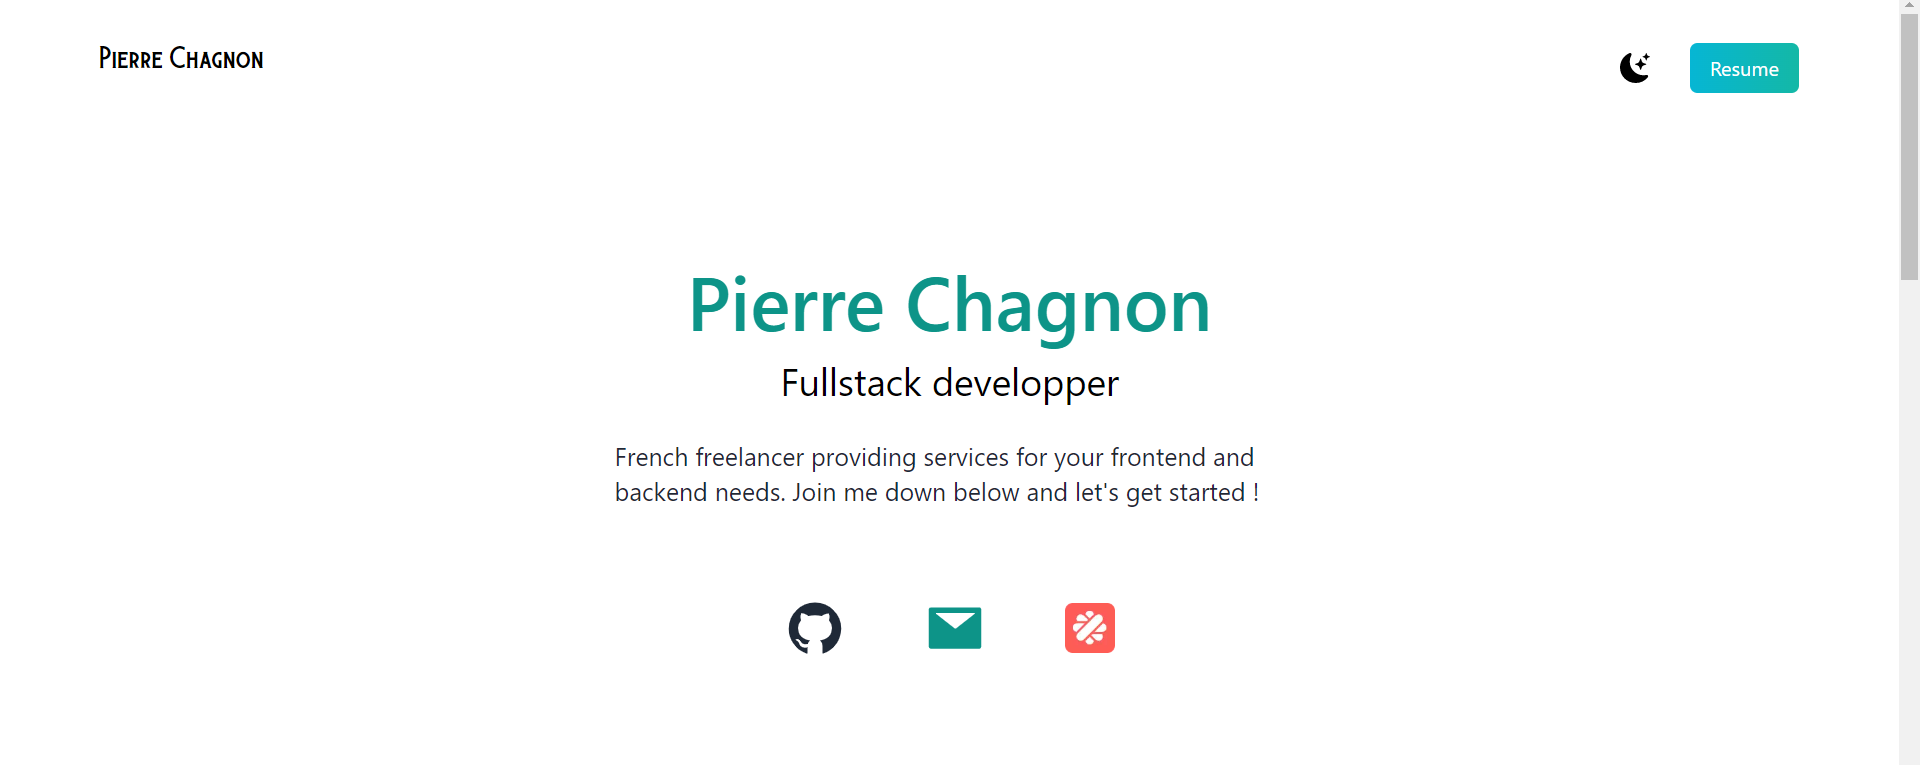
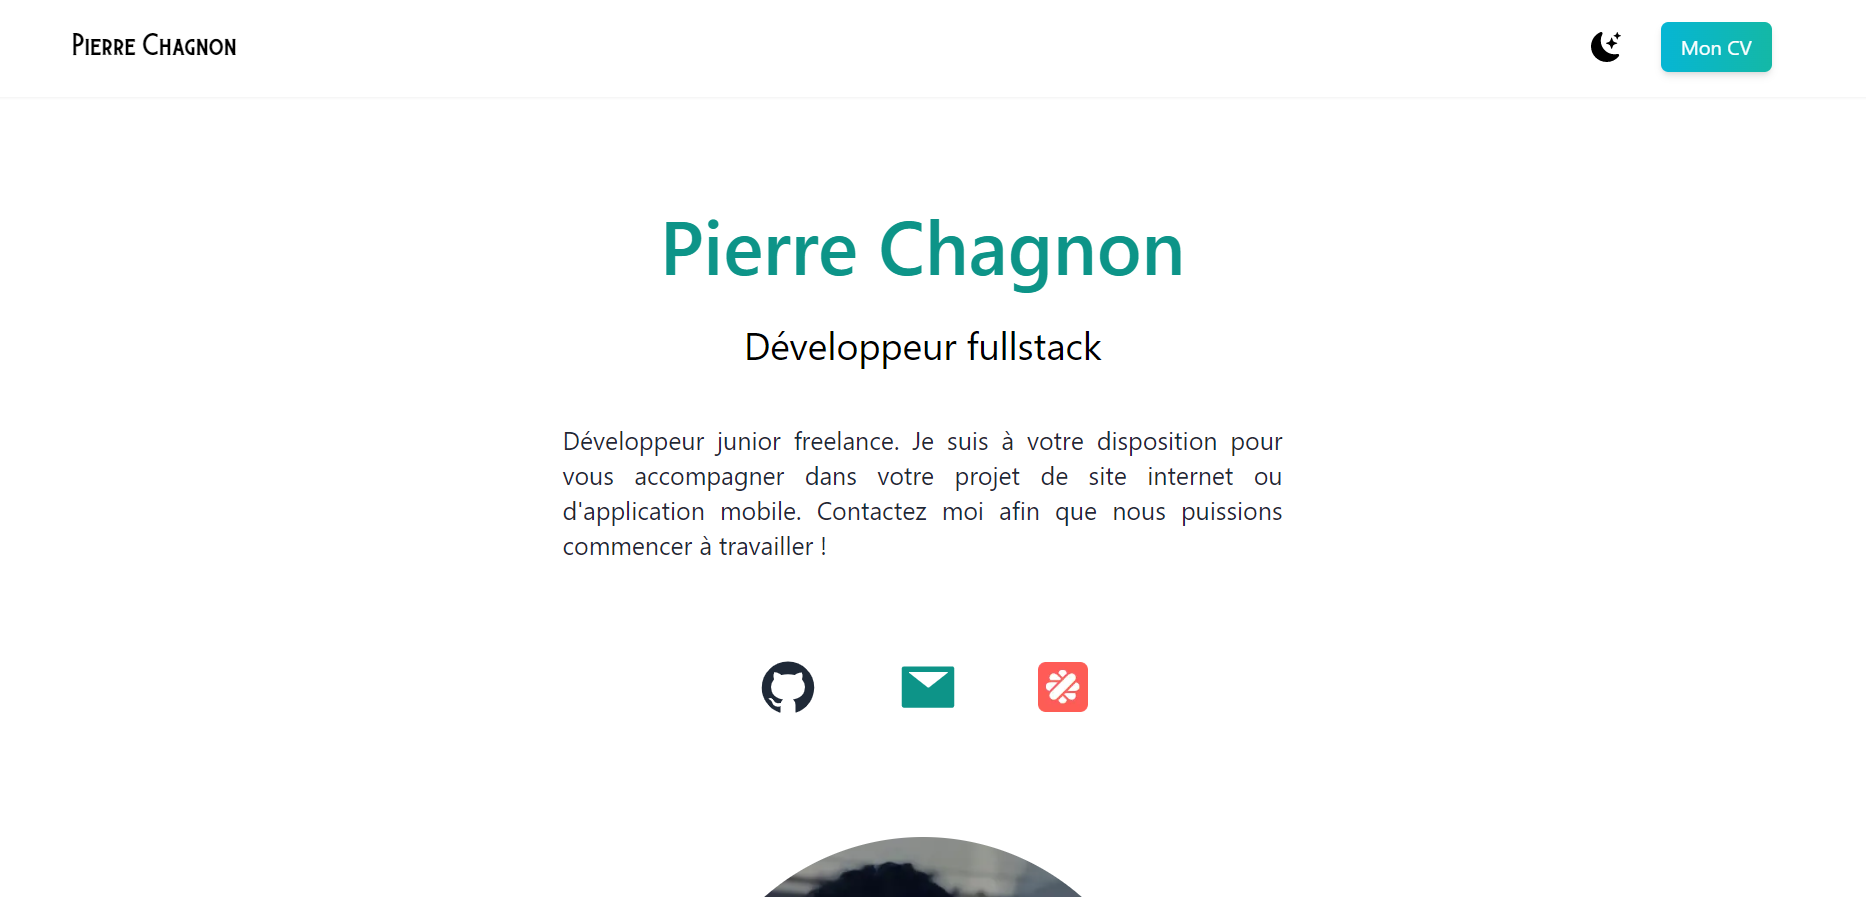
v2 cards onclick infos

diff --git a/pages/index.js b/pages/index.js
@@ -10,17 +10,28 @@ import design2 from '../public/project-1/screen2.png'
 import ambLogo from '../public/project-1/logo.png'
 
 import design3 from '../public/project-2/screen1.png'
+import design32 from '../public/project-2/screen2.png'
+import design33 from '../public/project-2/screen3.png'
+
 
 import design4 from '../public/project-3/screen1.png'
 
+import slideAmbassadeur from '../public/project-1/slide-ambassadeur.png'
+
 import Card from '../components/Card'
 import ModalResume from '../components/ModalResume'
+import MoreInfos from "../components/MoreInfos"
 
 import { useState } from 'react'
 
 export default function Home() {
+  console.log("index rendered")
+
   const [darkMode, setDarkMode] = useState(false)
   const [showCv, setShowCv] = useState(false)
+  const [showInfos, setShowInfos] = useState(false)
+  const [screens, setScreens] = useState(null)
+
 
   const handleCloseModal = () => {
     document.body.classList.toggle('overflow-hidden')
@@ -29,46 +40,54 @@ export default function Home() {
 
   const handleShowModal = () => {
     document.body.classList.toggle('overflow-hidden')
-    console.log(document.getElementById('container').classList)
     setShowCv(true)
+  }
+
+  const handleShowInfos = (screens) => {
+    document.body.classList.toggle('overflow-hidden')
+    setShowInfos(true)
+    setScreens(screens)
+  }
+
+  const handleCloseInfos = () => {
+    document.body.classList.toggle('overflow-hidden')
+    setShowInfos(false)
   }
 
   return (
     <div id="container" className={darkMode ? "dark" : ""}>
+      {showInfos ? <MoreInfos handleCloseInfos={handleCloseInfos} screens={screens} /> : ''}
       {showCv ? <ModalResume handleCloseModal={handleCloseModal} /> : ''}
       <Head>
         <title>Pierre Chagnon Portfolio</title>
         <meta name="description" content="Generated by create next app" />
-        <link rel="icon" href="/favicon.ico" />
+        <link rel="icon" href="/icon.png" />
       </Head>
-
-      <main className='bg-white px-10 md:px-20 lg:px-30 pb-10 dark:bg-gray-900'>
-        <section className='min-h-screen'>
-          <nav className='py-10 mb-12 flex justify-between dark:text-white'>
-            <h1 className='text-xl font-burtons'>Pierre Chagnon</h1>
-            <ul className='flex items-center'>
-              <li><BsFillMoonStarsFill onClick={() => setDarkMode(!darkMode)} className='cursor-pointer text-2xl hover:text-gray-400 transition duration-150 ease-out hover:ease-in' /></li>
-              <li>
-                <button onClick={handleShowModal} className='bg-gradient-to-r from-cyan-500 to-teal-500 text-white px-4 py-2 rounded-md ml-8 hover:scale-110 transition duration-150 ease-out hover:ease-in shadow-md' href="#">Mon CV</button>
-              </li>
-            </ul>
-          </nav>
-          <div className='flex flex-col justify-center p-10'>
-            <h2 className='text-5xl py-2 text-teal-600 font-medium text-center md:text-6xl'>Pierre Chagnon</h2>
-            <h3 className='text-2xl py-2 text-center md:text-3xl dark:text-white'>Fullstack developper</h3>
-            <p className='text-justify mx-auto text-md py-5 leading-8 text-gray-800 md:text-xl max-w-xl dark:text-gray-400'>
-              Développeur junior freelance. Je suis à votre disposition pour vous accompagner dans votre projet de site internet ou d&apos;application mobile. Contactez moi afin que nous puissions commencer à travailler !
-            </p>
-          </div>
-          <div className='text-5xl flex justify-center gap-16 py-3 items-center'>
-            <a className='hover:scale-110 transition duration-150 ease-out hover:ease-in' href='https://github.com/PierreChagnon' target="_blank" rel="noreferrer" ><AiFillGithub className='cursor-pointer text-gray-800 dark:text-gray-400' /></a>
-            <a href='mailto:pc.chagnon@gmail.com'><AiFillMail className='cursor-pointer text-teal-600 dark:text-cyan-500 hover:scale-110 transition duration-150 ease-out hover:ease-in' /></a>
-            <a className='hover:scale-110 transition duration-150 ease-out hover:ease-in' href='https://www.malt.fr/profile/pierrechagnon' target="_blank" rel="noreferrer" ><img className="object-contain" width={40} src="https://dam.malt.com/rebranding2020/malt-logo/icon-76x76" alt="" /></a>
-          </div>
-          <div className='relative w-80 h-80 mx-auto my-20 md:h-96 md:w-96'>
-            <Image className='rounded-full' src={profil} layout="fill" />
-          </div>
-        </section>
+      <nav id='nav' className='sticky shadow-sm top-0 z-30 bg-white w-full px-10 md:px-20 lg:px-30 h-20 flex justify-between items-center dark:text-white dark:bg-gray-900'>
+        <h1 className='text-xl font-burtons'><a href='https://pierrechagnon.fr' rel='noreferrer'>Pierre Chagnon</a></h1>
+        <ul className='flex items-center'>
+          <li><BsFillMoonStarsFill onClick={() => setDarkMode(!darkMode)} className='cursor-pointer text-2xl hover:text-gray-400 transition duration-150 ease-out hover:ease-in' /></li>
+          <li>
+            <button onClick={handleShowModal} className='bg-gradient-to-r from-cyan-500 to-teal-500 text-white px-4 py-2 rounded-md ml-8 hover:scale-110 transition duration-150 ease-out hover:ease-in shadow-md' href="#">Mon CV</button>
+          </li>
+        </ul>
+      </nav>
+      <main className='bg-white px-10 md:px-20 lg:px-30 py-10 dark:bg-gray-900'>
+        <div className='flex flex-col justify-center p-10'>
+          <h2 className='text-5xl py-2 text-teal-600 font-medium text-center md:text-6xl'>Pierre Chagnon</h2>
+          <h3 className='my-4 text-2xl py-2 text-center md:text-3xl dark:text-white'>Développeur fullstack</h3>
+          <p className='text-justify mx-auto text-md py-5 leading-8 text-gray-800 md:text-xl max-w-xl dark:text-gray-400'>
+            Développeur junior freelance. Je suis à votre disposition pour vous accompagner dans votre projet de <span className='text-teal-500'>site internet</span> ou d&apos;<span className='text-teal-500'>application mobile</span>. Contactez moi afin que nous puissions commencer à travailler !
+          </p>
+        </div>
+        <div id='icons-container' className='md:sticky top-0 w-fit z-30 mx-auto text-5xl flex gap-16 py-4 items-center'>
+          <a className='hover:scale-110 transition duration-150 ease-out hover:ease-in' href='https://github.com/PierreChagnon' target="_blank" rel="noreferrer" ><AiFillGithub className='cursor-pointer text-gray-800 dark:text-gray-400' /></a>
+          <a href='mailto:pc.chagnon@gmail.com'><AiFillMail className='cursor-pointer text-teal-600 dark:text-cyan-500 hover:scale-110 transition duration-150 ease-out hover:ease-in' /></a>
+          <a className='hover:scale-110 transition duration-150 ease-out hover:ease-in' href='https://www.malt.fr/profile/pierrechagnon' target="_blank" rel="noreferrer" ><img className="object-contain" width={40} src="https://dam.malt.com/rebranding2020/malt-logo/icon-76x76" alt="" /></a>
+        </div>
+        <div className='relative w-80 h-80 mx-auto my-20 md:h-96 md:w-96'>
+          <Image className='rounded-full' src={profil} layout="fill" />
+        </div>
         <section>
           <div>
             <h3 className='text-3xl py-1 dark:text-white'>Portfolio</h3>
@@ -76,15 +95,16 @@ export default function Home() {
           </div>
           <div className='lg:flex gap-10'>
             <Card
+              handleShowInfos={() => handleShowInfos([slideAmbassadeur])}
               id={"card-1"}
               previews={[design1, design2]}
               title="L'ambassadeur"
               description="Application mobile développée avec React Native. Travail réalisé pour le compte de la société Beyond Games. Je suis intervenu sur toute la conception, du design à l'intégration en React Native. L'application est disponible sur l'App Store et le Google Play"
               githubLink="https://github.com/PierreChagnon/Ambassadeur"
               frameworks={["React Native", "CSS 3", "Figma"]}
-              screens={[design1, design2, ambLogo]}
             />
             <Card
+              handleShowInfos={() => handleShowInfos([design3, design32, design33])}
               id={'card-2'}
               previews={[design3]}
               title="this.Portfolio"
@@ -93,10 +113,11 @@ export default function Home() {
               frameworks={['React js', 'Next js', 'Tailwind css']}
             />
             <Card
+              handleShowInfos={() => handleShowInfos([design4])}
               id={'card - 3'}
               previews={[design4]}
               title="Calculateur loyer Pinel"
-              description="Site d'informations sur la loi Pinel et calculateur de réduction d'impôt Pinel. Module React js intégré dans le code HTML. Le formulaire communique les informations sur une base de donnée MySQL via une application Express sur Node js."
+              description="Site d'informations sur la loi Pinel et calculateur de réduction d'impôt Pinel. Module React js intégré dans le code HTML. Le formulaire communique les informations sur une base de données MySQL via une application Express sur Node js."
               githubLink="#"
               frameworks={['React js', 'Express', 'Node js', 'MySQL']}
             />
@@ -115,7 +136,7 @@ export default function Home() {
             <input className='dark:outline-none dark:border-0 outline-gray-400 text-gray-600 border-gray-400 border-2 rounded-md my-2 h-10 p-2 ' type="email" name='email' placeholder='Your email...' required />
             <textarea className='dark:outline-none dark:border-0 outline-gray-400 text-gray-600 border-gray-400 border-2 rounded-md my-2 p-2 h-32 ' name="message" id="textarea" placeholder='Your message...'></textarea>
             <input type="hidden" name="_next" value="https://pierrechagnon.fr"></input>
-            <button className='hover:scale-105 transition duration-150 ease-out hover:ease-in shadow-md w-1/2 bg-gradient-to-r from-cyan-500 to-teal-500 text-white p-2 rounded-md mx-auto my-4' type='submit'>Send message</button>
+            <button className='hover:scale-105 transition duration-150 ease-out hover:ease-in shadow-md w-1/2 bg-gradient-to-r from-cyan-500 to-teal-500 text-white p-2 rounded-md mx-auto my-4' type='submit'>Envoyer</button>
           </form>
         </section>
       </main>

diff --git a/components/Card.jsx b/components/Card.jsx
@@ -1,41 +1,27 @@
 import Image from "next/image"
 import { AiFillGithub } from "react-icons/ai"
 
-import MoreInfos from "./MoreInfos"
-
-import { useState, useRef, useEffect } from "react"
-
-export default function Card({ id, previews, title, description, githubLink = '#', frameworks, screens = [''] }) {
-    const [show, setShow] = useState(false)
-    const [height, setHeight] = useState(0);
-    const [width, setWidth] = useState(0);
-    const ref = useRef(null)
-
-    useEffect(() => {
-        setHeight(ref.current.offsetHeight);
-        setWidth(ref.current.offsetWidth);
-    }, [])
+export default function Card({ id, previews, title, description, githubLink = '#', frameworks, handleShowInfos }) {
 
     return (
         <div
-            ref={ref}
-            onClick={() => setShow(!show)}
-            onMouseLeave={() => setShow(false)}
+            onClick={handleShowInfos}
             id={id}
-            className='hover:scale-105 transition duration-150 ease-out hover:ease-in flex flex-col flex-1 items-center justify-between cursor-pointer shadow-lg p-10 rounded-xl my-10 bg-white'
+            className='hover:shadow-xl dark:shadow-gray-500 transition duration-150 ease-out hover:ease-in flex flex-col flex-1 items-center justify-between cursor-pointer shadow-md p-10 rounded-xl my-10 bg-white'
         >
-            {/* {show ? <MoreInfos screens={screens} id={id + "-info"} width={width} height={height} /> : ''} */}
             <div className='flex justify-around max-h-40 md:max-h-60'>
                 {previews.map((img, key) => {
                     return <Image key={key} src={img} objectFit={"contain"} />
 
                 })}
             </div>
-            <h3 className='text-xl font-medium pt-8 pb-2 text-center dark:text-white'>{title}</h3>
-            <p className='py-2 text-justify'>{description}</p>
-            <div className="flex w-full justify-center items-center text-lg my-4">
-                <AiFillGithub className="text-2xl" />
-                <a href={githubLink} onclick="event.preventDefault()" target="_blank" rel="noreferrer" className='ml-4 hover:text-teal-800 transition duration-150 ease-out hover:ease-in py-4 text-teal-600'>lien Github</a>
+            <h3 className='text-xl mt-2 font-medium py-4 text-center dark:text-white'>{title}</h3>
+            <p className='text-justify mb-2'>{description}</p>
+            <div onClick={(e) => e.stopPropagation()} className="flex w-full justify-center items-center text-lg py-4">
+                <AiFillGithub className="text-2xl mr-4" />
+                <span className="before:block before:absolute before:inset-0 before:border-b before:border-b-teal-600 before:hover:border-b-teal-800 before:w-full before:scale-x-0 before:hover:scale-x-100 relative inline-block before:transition before:duration-150 before:ease-out before:hover:ease-in">
+                    <a href={githubLink} target="_blank" rel="noreferrer" className="w-full relative hover:text-teal-800 transition duration-150 ease-out hover:ease-in text-teal-600">Lien Github</a>
+                </span>
             </div>
             <div className='flex justify-center gap-x-10 flex-wrap '>
                 {frameworks.map((framework, key) => {

diff --git a/components/MoreInfos.jsx b/components/MoreInfos.jsx
@@ -1,21 +1,18 @@
-import { useEffect } from "react"
 import Image from "next/image"
 
-export default function MoreInfos({ id, width, height, screens = [''] }) {
-    useEffect(() => {
-        document.getElementById(id).style.width = width
-        document.getElementById(id).style.height = height
-    }, [])
-
+export default function MoreInfos({ screens, handleCloseInfos }) {
     return (
-        <div id={id} className="absolute top-0 right-0 w-full h-full z-30 flex flex-wrap items-center justify-between cursor-pointer rounded-xl bg-white overflow-auto">
-            {screens.map((screen, key) => {
-                return (
-                    <div key={key}>
-                        <Image src={screen} objectFit={"cover"} />
-                    </div>
-                )
-            })}
+        <div onClick={handleCloseInfos} id={'more-infos'} className="fixed p-10 top-0 left-0 right-0 cursor-pointer z-50 h-screen bg-opacity-70 bg-gray-900">
+            <div className="gap-10 flex md:flex-col flex-wrap items-center justify-center overflow-x-auto w-full h-full ">
+                {screens.map((screen, key) => {
+                    console.count('mapping')
+                    return (
+                        <div key={key} className="">
+                        <Image src={screen} />
+                        </div>
+                    )
+                })}
+            </div>
         </div>
     )
 }

diff --git a/components/ModalResume.jsx b/components/ModalResume.jsx
@@ -5,9 +5,10 @@ import { AiFillCloseCircle } from "react-icons/ai"
 import cv from "../public/CV.png"
 
 export default function ModalResume({ handleCloseModal }) {
+
     return (
 
-        <div onClick={handleCloseModal} className="overflow-hidden cursor-pointer flex justify-center items-center z-10 w-full h-full bg-opacity-70 bg-gray-900 absolute">
+        <div onClick={handleCloseModal} className="fixed top-0 left-0 right-0 overflow-hidden cursor-pointer flex justify-center items-center z-50 w-full h-full bg-opacity-70 bg-gray-900">
             <AiFillCloseCircle className="absolute top-5 right-5 text-3xl text-gray-900" />
             <Image onClick={(e) => e.stopPropagation()} className="cursor-default" height={window.innerHeight - 10} src={cv} objectFit="contain" />
         </div>
